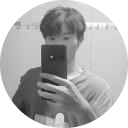
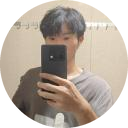
docs: finalize colorful credits and source development guide

diff --git a/README_EN.md b/README_EN.md
@@ -8,7 +8,11 @@
 
 71 desktop tools · 12 categories · Local file workflows · CLI / MCP
 
-[Download for Windows](https://toolknit.com/exe.html) · [Open the web app](https://toolknit.com) · [简体中文](README.md)
+<p align="center">
+<a href="https://toolknit.com/exe.html"><img src="assets/readme/v3.1/link-download-en.svg" alt="Download for Windows" width="192" height="40" /></a>
+<a href="https://toolknit.com"><img src="assets/readme/v3.1/link-web-en.svg" alt="Open the web app" width="176" height="40" /></a>
+<a href="README.md"><img src="assets/readme/v3.1/link-chinese.svg" alt="简体中文" width="104" height="40" /></a>
+</p>
 
 </div>
 
@@ -36,9 +40,9 @@ See [Get started](#08--get-started) for installation requirements and instructio
 
 <table width="100%">
 <tr>
-<td align="center" width="33%"><a href="https://github.com/ZihangDong"><img src="assets/readme/v3.1/avatar-zihang.png" width="64" height="64" alt="Zihang Dong's avatar" /><br /><strong>Zihang Dong</strong></a><br />Product design · Development · Maintenance</td>
-<td align="center" width="33%"><a href="https://github.com/Joshua-Zion"><img src="assets/readme/v3.1/avatar-joshua.png" width="64" height="64" alt="Joshua-Zion's avatar" /><br /><strong>Joshua-Zion</strong></a><br />Color spaces · Interaction improvements</td>
-<td align="center" width="33%"><a href="https://github.com/hqyx2025"><img src="assets/readme/v3.1/avatar-hqyx.png" width="64" height="64" alt="hqyx2025's avatar" /><br /><strong>hqyx2025</strong></a><br />Project verification · Bug testing</td>
+<td align="center" width="33%"><a href="https://github.com/ZihangDong"><img src="assets/readme/v3.1/avatar-zihang.png" width="64" height="64" alt="Zihang Dong's avatar; visit GitHub" /></a><br /><strong>Zihang Dong</strong><br />Product design · Development · Maintenance</td>
+<td align="center" width="33%"><a href="https://github.com/Joshua-Zion"><img src="assets/readme/v3.1/avatar-joshua.png" width="64" height="64" alt="Joshua-Zion's avatar; visit GitHub" /></a><br /><strong>Joshua-Zion</strong><br />Color spaces · Interaction improvements</td>
+<td align="center" width="33%"><a href="https://github.com/hqyx2025"><img src="assets/readme/v3.1/avatar-hqyx.png" width="64" height="64" alt="hqyx2025's avatar; visit GitHub" /></a><br /><strong>hqyx2025</strong><br />Project verification · Bug testing</td>
 </tr>
 </table>
 
@@ -50,7 +54,7 @@ Thanks to everyone who uses, tests and improves ToolKnit. Joshua-Zion's contribu
 
 [05 Files](#05--keep-file-work-in-one-place) · [06 Pictures and sound](#06--a-workbench-for-pictures-and-sound) · [07 CLI / Agents](#07--work-by-hand-or-hand-it-to-an-agent) · [Actual screenshots](#the-actual-workspaces)
 
-[08 Get started](#08--get-started) · [Tool catalog](#complete-tool-catalog) · [Support and feedback](#support-and-feedback) · [License](#source-license) · [Star History](#star-history)
+[08 Get started](#08--get-started) · [Tool catalog](#complete-tool-catalog) · [Support and feedback](#support-and-feedback) · [Run and build from source](#run-and-build-from-source) · [Technology stack](#technology-stack) · [License](#source-license) · [Star History](#star-history)
 
 <table width="100%">
 <tr>
@@ -237,21 +241,6 @@ Ordinary file tasks run locally by default. When you actively use an AI feature,
 Dependency downloads and update checks need a connection; installed offline capabilities do not require an AI key.
 File-size, page, pixel and batch limits vary by tool; support is not unlimited for every format.
 
-### Run from source
-
-```powershell
-git clone https://github.com/ZihangDong/toolknit-desktop.git
-Set-Location toolknit-desktop
-git switch codex/readme-v3.1-comic-preview
-Set-Location toolknit-desktop
-npm ci
-npm run tauri dev
-```
-
-Requires Node.js **22.12+** (24 recommended), Rust stable, Visual Studio C++ Build Tools, Windows SDK and WebView2.
-The repository root holds documentation; the nested `toolknit-desktop/` directory is the npm / Tauri project.
-See the [build guide](BUILD.md). This branch previews the README and does not announce an installer release.
-
 ## Complete tool catalog
 
 <details>
@@ -283,6 +272,71 @@ Thanks to [AtomGit](https://atomgit.com/) for code hosting and developer collabo
 If ToolKnit saves you time, a Star or [one-time donation](assets/readme/donation-support.webp) helps support development, AI testing and maintenance.
 [Thank you to our supporters](assets/readme/supporters-thanks.webp). Donations do not purchase a feature or promise implementation.
 Custom tools and commercial licensing: WeChat **wunanvip6**; email [2645149786@qq.com](mailto:2645149786@qq.com).
+
+## Run and build from source
+
+[↑ Back to contents](#contents)
+
+### Prerequisites
+
+Use a supported Windows 10 / 11 system with Node.js **22.12+** (24 recommended), Rust stable **1.88+**, Visual Studio C++ Build Tools (Desktop development with C++ and Windows SDK), and Microsoft Edge WebView2 Runtime.
+Initial npm and Rust dependency installation requires a connection. Install using the existing lockfiles.
+
+### Start the desktop app
+
+```powershell
+git clone https://github.com/ZihangDong/toolknit-desktop.git
+Set-Location toolknit-desktop\toolknit-desktop
+npm ci
+npm run tauri dev
+```
+
+This checks out the default branch; check the download page for installer availability. For a frontend preview, run `npm run dev` in the same directory and open `http://localhost:1420/`. Native file access, the system tray and global screenshot features require the Tauri desktop environment.
+
+### Build an installer
+
+From the nested `toolknit-desktop/` directory:
+
+```powershell
+npm run build:release-package
+```
+
+This builds the frontend and desktop application; it does not configure code signing automatically. The default NSIS output is `src-tauri/target/release/bundle/nsis/`; if you customize the Cargo target directory, follow the build output.
+FFmpeg, LibreOffice and optional models are installed on demand. Source code does not include user keys or complete model packages.
+
+### Source layout
+
+```text
+Repository root/
+├── README.md / README_EN.md   Project introduction
+├── BUILD.md                  Full build guide
+├── assets/                   Documentation and artwork
+└── toolknit-desktop/          npm / Tauri working directory
+    ├── src/features/         Tool pages, logic and styles
+    ├── src/app/              App orchestration and lifecycle
+    ├── src/shared/           Shared UI and runtimes
+    ├── src/platform/         Browser and native adapters
+    ├── src-tauri/            Rust native capabilities and configuration
+    ├── cli/                  CLI / MCP interfaces
+    └── scripts/              Checks, tests and build scripts
+```
+
+Read more: [Build guide](BUILD.md) · [Contributing](CONTRIBUTING.md) · [Architecture and maintenance (Chinese)](toolknit-desktop/docs/V3_MAINTENANCE_GUIDE.zh-CN.md) · [CLI / MCP](toolknit-desktop/docs/cli-agent.md).
+
+### Technology stack
+
+| Layer | Technologies | Role in ToolKnit |
+| --- | --- | --- |
+| Desktop and native | Tauri 2, Rust, Windows API, WebView2 | Windows, system tray, shortcuts, screenshots, local OCR and file operations |
+| Frontend and build | Vanilla JavaScript (ES Modules), HTML / CSS, Vite 8, Lucide | Modular tool pages, lazy loading, themes and icons |
+| PDF and office files | PDF.js, pdf-lib, ExcelJS, JSZip | PDF preview and editing, spreadsheets and document archives |
+| Markdown and editing | CodeMirror 6, markdown-it, KaTeX, Mermaid, DOMPurify | Editing, typesetting, math, diagrams and HTML sanitization |
+| Images and media | Canvas, Rust image / oxipng, FFmpeg | Image processing and compression, media conversion; FFmpeg is installed on demand |
+| Local models and external runtimes | ONNX Runtime, offline recognition and Chinese / English translation components, LibreOffice | Background removal, transcription, local translation and office rendering, installed per feature |
+| Data and networking | SQLite, AES-GCM / Argon2, Tokio, reqwest | Local history and encryption, asynchronous tasks and native requests |
+| Automation and AI | Node.js CLI, MCP, OpenAI-compatible APIs | Batches, Agent access and AI workflows actively configured by the user |
+
+Third-party components retain their own licenses. See `package-lock.json` and `src-tauri/Cargo.lock` in the desktop project for exact versions. Optional runtimes and models are not all bundled in the main installer.
 
 ## Source license
 

diff --git a/docs/README_V3_1_VISUAL_REPORT.zh-CN.md b/docs/README_V3_1_VISUAL_REPORT.zh-CN.md
@@ -17,16 +17,21 @@
 - 中英文正文同步，英文版复用中文漫画并提供英文替代描述和解释。
 - 完整工具目录与 MCP 示例折叠显示；保留贡献者、联系方式、支持入口、
   构建步骤与当前非商业源码许可及历史 Apache-2.0 授权说明。
+- 底部独立提供源码运行与构建章节，补齐环境准备、双层目录、启动、安装包
+  构建和维护文档入口。技术栈按当前 npm / Cargo 依赖核对，说明各层用途及
+  可选模型、外部运行时的安装边界。
+- 贡献者头像恢复原始颜色，姓名保留加粗正文；顶部入口使用黑白 SVG 胶囊，
+  文字加粗并带下划线。GitHub 会过滤自定义 CSS，正文与目录链接保留平台默认配色。
 
 ## 素材与维护
 
 - 八张漫画均为 2048 x 1152；两张截图保持实际 1280 x 720。
-- 当前 V3.1 素材共 4613896 bytes，约 4.40 MiB，包括无损 WebP、圆形 PNG 头像和 SVG。
-  解码后逐通道核对 RGB 相等，避免有损色彩空间转换引入彩色像素。
+- 当前 V3.1 视觉素材共 4644116 bytes，约 4.43 MiB，包括无损 WebP、圆形 PNG 头像和 SVG。
+  漫画与截图保持灰度；头像保留原始色彩和透明圆形遮罩。
 - 局部修正两处分镜中的重复蜘蛛。保留原始生成文件在本机，不发布
   API 配置、密钥、第三方参考副本、生成日志或未优化的原始图。
 - 旧首页、分类、捐赠与支持者素材全部保留，捐赠和支持者图片继续以
-  链接提供，当前 README 嵌入八张章节图、两张截图、三个头像、一个动态表情及外部星图。
+  链接提供，当前 README 嵌入八张章节图、两张截图、三个头像、三个入口按钮、一个动态表情及外部星图。
 - [素材清单](../assets/readme/README.md)维护尺寸、体积、来源和处理方式；
   [分镜说明](../assets/readme/v3.1/ILLUSTRATION_BRIEF.md)保存构图与对白。
 
@@ -34,19 +39,20 @@
 
 - 从当前工具注册与 CLI 注册核对 71 项桌面工具、12 个分类、46 项
   CLI/MCP 能力。分类数量相加为 71，不把命令行能力等同于桌面工具总数。
-- 双语 Markdown 渲染各包含 15 张图片、23 个标题与 70 个链接；本地
+- 双语 Markdown 渲染各包含 18 张图片、28 个标题与 79 个引用（含图片及链接）；本地
   文件引用与目录锚点全部存在，图片解码和加载成功。
 - 本地 GitHub 风格预览核对 1280 px 和 390 px 宽度、章节跳转及折叠
   目录。表格可横向滚动，页面整体无水平溢出。
 - 官网首页核对 95 项网页工具；不将此数与桌面端 71 项混用。头像包含透明
-  圆形遮罩，所有本地位图核对灰度通道相等。Star History 原接口 HTTP 200，
+  圆形遮罩并保留彩色，漫画与截图核对灰度通道相等。Star History 原接口 HTTP 200，
   普通无参数授权接口拒绝访问，因此沿用已公开的原图表地址。
 - 文档任务仅执行相关数量、引用、素材、排版和 Git diff 检查，不把
   无关的应用构建或安装验证重复作为文档完成条件。
 
 ## 交付边界
 
-使用独立分支 `codex/readme-v3.1-comic-preview` 供预览。不创建发布标签、
-Release 或安装包，不合并到发行分支；安装包是否已正式发布仍以公告
-和下载页为准。后续更新图片时同步两个 README 和素材清单，不随意
+使用独立分支 `codex/readme-v3.1-comic-preview` 完成预览，用户于 2026-10-15
+确认合入默认分支 `main`。源码说明改为克隆默认分支；不创建发布标签、
+Release 或安装包，安装包是否已正式发布仍以公告和下载页为准。
+后续更新图片时同步两个 README 和素材清单，不随意
 删除仍被产品或历史文档使用的素材。

diff --git a/assets/readme/README.md b/assets/readme/README.md
@@ -18,13 +18,20 @@ English descriptions and surrounding text explain the Chinese comic scenes.
 | `v3.1/08-start.webp` | Getting started and independent development | 2048 x 1152 | 532642 |
 | `v3.1/desktop-home.webp` | Actual repository 3.1 homepage, browser-rendered, window radius disabled | 1280 x 720 | 92690 |
 | `v3.1/web-home.webp` | Actual Chinese ToolKnit.com homepage | 1280 x 720 | 122104 |
-| `v3.1/avatar-zihang.png` | ZihangDong public GitHub avatar | 128 x 128 | 18182 |
-| `v3.1/avatar-joshua.png` | Joshua-Zion public GitHub avatar | 128 x 128 | 21555 |
-| `v3.1/avatar-hqyx.png` | hqyx2025 public GitHub avatar | 128 x 128 | 18412 |
+| `v3.1/avatar-zihang.png` | ZihangDong public GitHub avatar, original colors | 128 x 128 | 24572 |
+| `v3.1/avatar-joshua.png` | Joshua-Zion public GitHub avatar, original colors | 128 x 128 | 34255 |
+| `v3.1/avatar-hqyx.png` | hqyx2025 public GitHub avatar, original colors | 128 x 128 | 26830 |
 | `v3.1/spider-wave.svg` | Original blinking, waving spider expression | 88 x 88 | 1171 |
+| `v3.1/link-download-zh.svg` | Chinese Windows download action | 168 x 40 | 462 |
+| `v3.1/link-web-zh.svg` | Chinese web app action | 144 x 40 | 453 |
+| `v3.1/link-english.svg` | English README action | 104 x 40 | 429 |
+| `v3.1/link-download-en.svg` | English Windows download action | 192 x 40 | 468 |
+| `v3.1/link-web-en.svg` | English web app action | 176 x 40 | 456 |
+| `v3.1/link-chinese.svg` | Chinese README action | 104 x 40 | 444 |
 
-Total: 4613896 bytes (approximately 4.40 MiB). Raster files are lossless grayscale
-WebP or PNG, with equal RGB channels verified after decoding. Comic exports are 2K;
+Total: 4644116 bytes (approximately 4.43 MiB). Comics and screenshots are lossless
+grayscale WebP, with equal RGB channels verified after decoding. Contributor
+avatars retain their original colors in PNG. Comic exports are 2K;
 screenshots retain their actual capture resolution rather than being upscaled.
 
 ## Creation and references
@@ -48,11 +55,15 @@ screenshots retain their actual capture resolution rather than being upscaled.
   styles were not changed. Only grayscale conversion and WebP encoding were
   applied to the captured pixels.
 - Contributor avatars were retrieved from public GitHub profile image URLs on
-  2026-10-15, resized to 128 x 128, converted to grayscale and masked into circles
+  2026-10-15, resized to 128 x 128, kept in their original colors and masked into circles
   with transparent corners. They identify the credited contributors only.
 - The expression SVG is original project artwork. Declarative SVG animation
   makes the spider blink and wave; its static appearance still works if a viewer
   disables animation. It contains no scripts or external references.
+- The six action SVGs use black capsules with bold, underlined white labels.
+  Contributor names use plain bold text; only the colored avatars link to profiles.
+  This avoids custom README CSS, which GitHub strips. Body and contents links retain
+  the viewer's native link colors. The action SVGs contain no scripts or external references.
 - The bottom Star History image reuses the previous public service chart URL,
   checked successfully (HTTP 200). It updates through the service rather than
   using the illustrative local `star-growth.svg`; third-party availability varies.

diff --git a/changelog.md b/changelog.md
@@ -48,7 +48,7 @@
 
 ### 界面与体验
 
-- 重构中英文项目自述文件，以黑白漫画介绍完整工作流，突出一键记录、快速截图与剪贴板历史；加入项目与作者介绍、使用入口、圆形贡献者头像、可往返的章节目录和并排推荐入口，更新中文网页端与无圆角桌面端真实截图，恢复底部动态星图，并说明本地处理与 AI 使用边界。
+- 重构中英文项目自述文件，以黑白漫画介绍完整工作流，突出一键记录、快速截图与剪贴板历史；加入项目与作者介绍、黑白入口按钮、彩色圆形贡献者头像、可往返的章节目录和并排推荐入口，更新中文网页端与无圆角桌面端真实截图，恢复底部动态星图；补齐源码运行、构建、目录结构与技术栈说明，并说明本地处理与 AI 使用边界。
 - 统一工具页与二级页面导航、双主题配色和图标悬停动画，补齐帮助中心、反馈与设置入口，改善来源页返回和页面切换。
 - 设置按常用程度重新排序，统一依赖管理弹框；新增首页工具懒加载开关，默认分批显示，关闭后显示全部工具。
 - 首页新增定制工具联系入口；修复深色背景、捐赠图片及部分双语文案显示。
